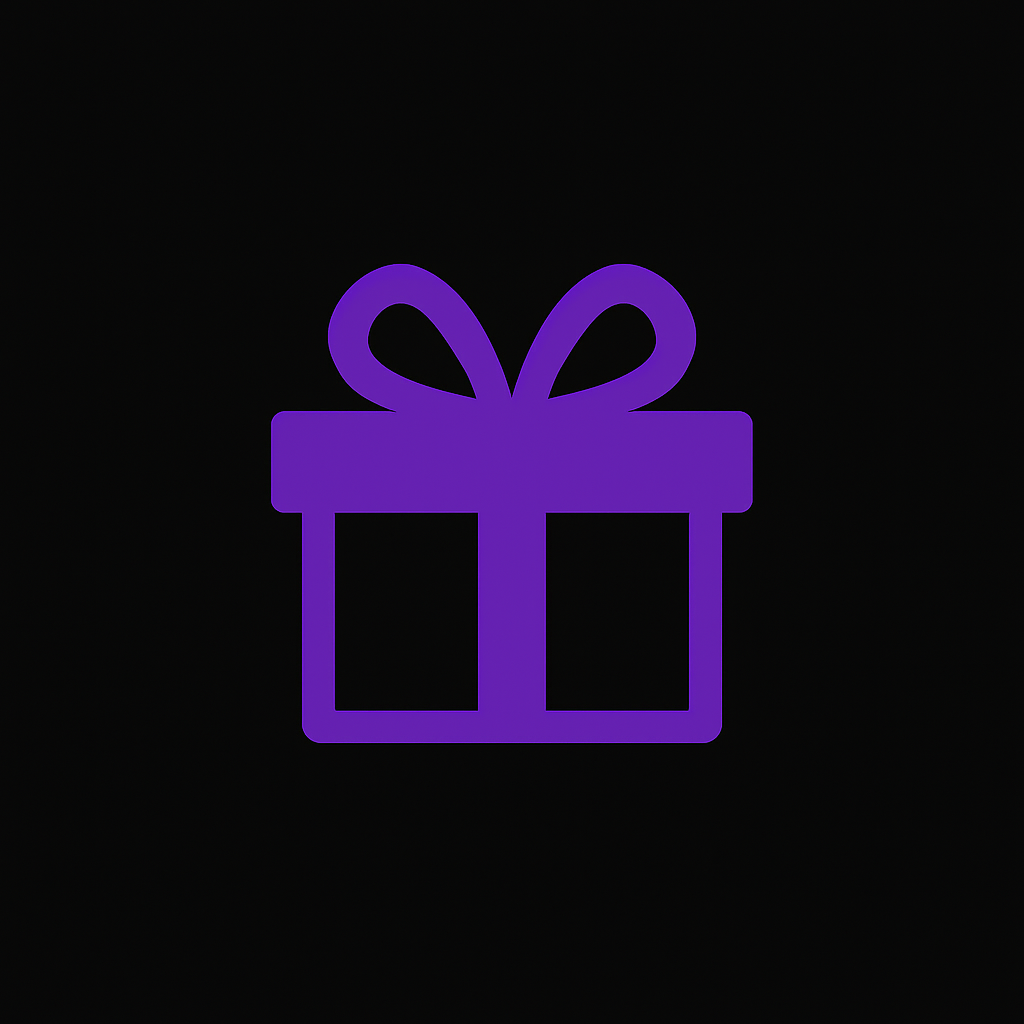
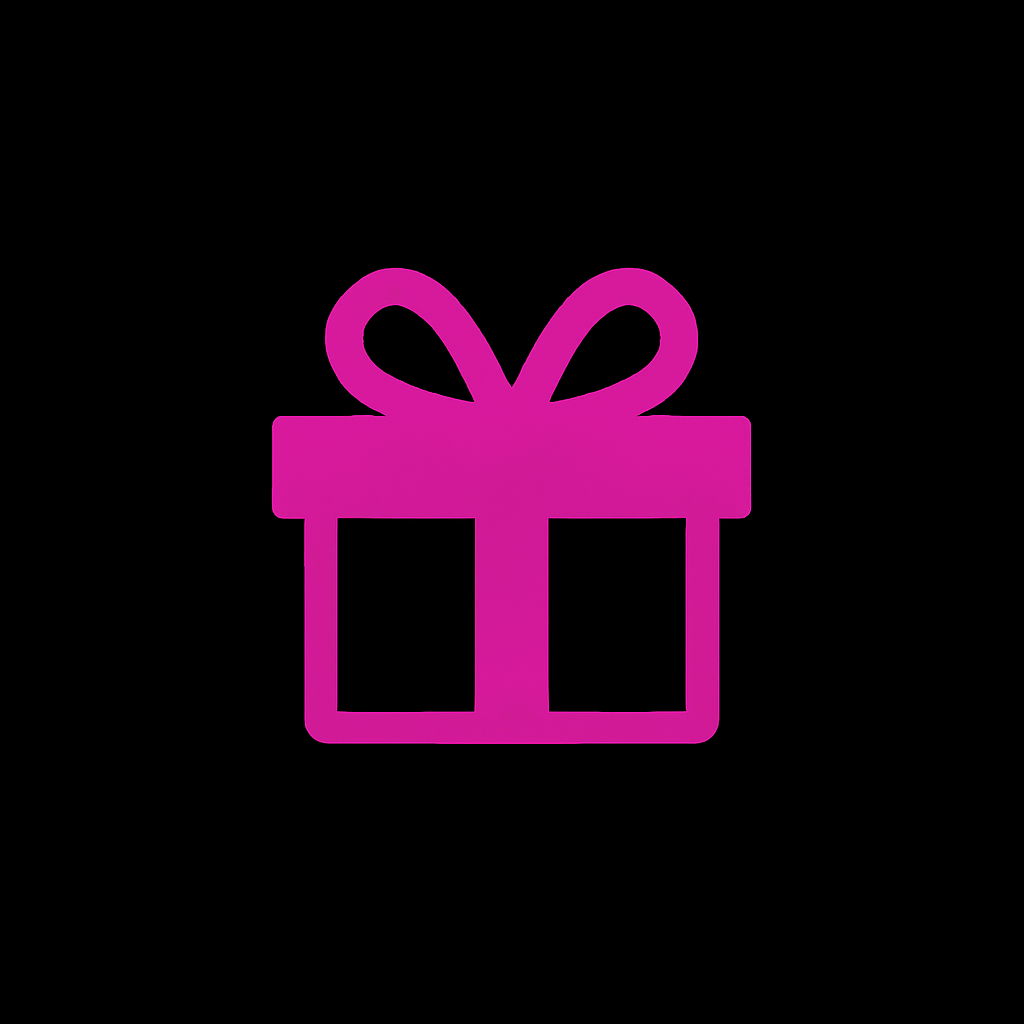
updaate colors

Changed region(s): [[0.25, 0.25, 0.75, 0.75]]

diff --git a/src/constant.js b/src/constant.js
@@ -85,37 +85,37 @@ DT 770 PRO обеспечивает более надежную
 
 export const tracks = [
     {
-    title: "Трек 1",
+    title: "Трек 1 до обработки",
     artist: "Исполнитель 1",
     image: "tracks-photo/1.jpg", // ссылка на обложку
     audioSrc: "tracks-audio/before1.mp3" // путь к треку
   },
   {
-    title: "Трек 1",
+    title: "Трек 1 после обработки",
     artist: "Исполнитель 1",
     image: "tracks-photo/1.jpg",
     audioSrc: "tracks-audio/after1.mp3"
   },
       {
-    title: "Трек 2",
+    title: "Трек 2 до обработки",
     artist: "Исполнитель 2",
     image: "tracks-photo/2.jpg", // ссылка на обложку
     audioSrc: "tracks-audio/before2.mp3" // путь к треку
   },
   {
-    title: "Трек 2",
+    title: "Трек 2 после обработки",
     artist: "Исполнитель 2",
     image: "tracks-photo/2.jpg",
     audioSrc: "tracks-audio/after2.mp3"
   },
         {
-    title: "Трек 3",
+    title: "Трек 3 до обработки",
     artist: "Исполнитель 3",
     image: "tracks-photo/3.jpg", // ссылка на обложку
     audioSrc: "tracks-audio/before3.mp3" // путь к треку
   },
   {
-    title: "Трек 3",
+    title: "Трек 3 после обработки",
     artist: "Исполнитель 3",
     image: "tracks-photo/3.jpg",
     audioSrc: "tracks-audio/after3.mp3"

diff --git a/tailwind.config.js b/tailwind.config.js
@@ -1,21 +1,22 @@
 /** @type {import('tailwindcss').Config} */
 export default {
-  content: [
-    "./index.html",
-    "./src/**/*.{js,jsx}"
-  ],
+  content: ["./index.html", "./src/**/*.{js,jsx}"],
   theme: {
     extend: {
       colors: {
         purple: {
-          400: "#9f7aea",
-          500: "#805ad5",
-          600: "#6b46c1",
-          700: "#553c9a"
+          // 400: "#9f7aea",
+          // 500: "#805ad5",
+          // 600: "#6b46c1",
+          // 700: "#553c9a"
+          400: "#db5cda", // основной цвет
+          500: "#db5cda", // тот же оттенок (можно заменить)
+          600: "#b84fb7", // немного темнее для 600
+          700: "#a34ba5", // ещё темнее для 700
         },
-        melon: "#db5cda"
-      }
-    }
+        melon: "#db5cda",
+      },
+    },
   },
-  plugins: []
+  plugins: [],
 };

diff --git a/src/pages/Home.jsx b/src/pages/Home.jsx
@@ -14,7 +14,7 @@ export const Home = () => {
         </h1>
         <div className="flex flex-col md:flex-row items-center justify-center bg-black text-white p-8 rounded-2xl shadow-lg my-12">
           <img
-            src="/image.png"
+            src="./image.png"
             alt="Подарок 🎁"
             className="w-24 h-24 md:w-32 md:h-32 mb-4 md:mb-0 md:mr-8"
           />
@@ -55,7 +55,7 @@ export const Home = () => {
         </div>
         <p>Адрес: Москва, Каширское шоссе 26к3</p>
         <Link to="https://vk.com/wakeupstuuu">VK: WakeUp Studio </Link>
-        <Link>ТГ: @wakeupstudiomcs</Link>
+        <Link to='https://t.me/wakeupstudio'>ТГ: @wakeupstudiomcs</Link>
       </div>
     </div>
   );
